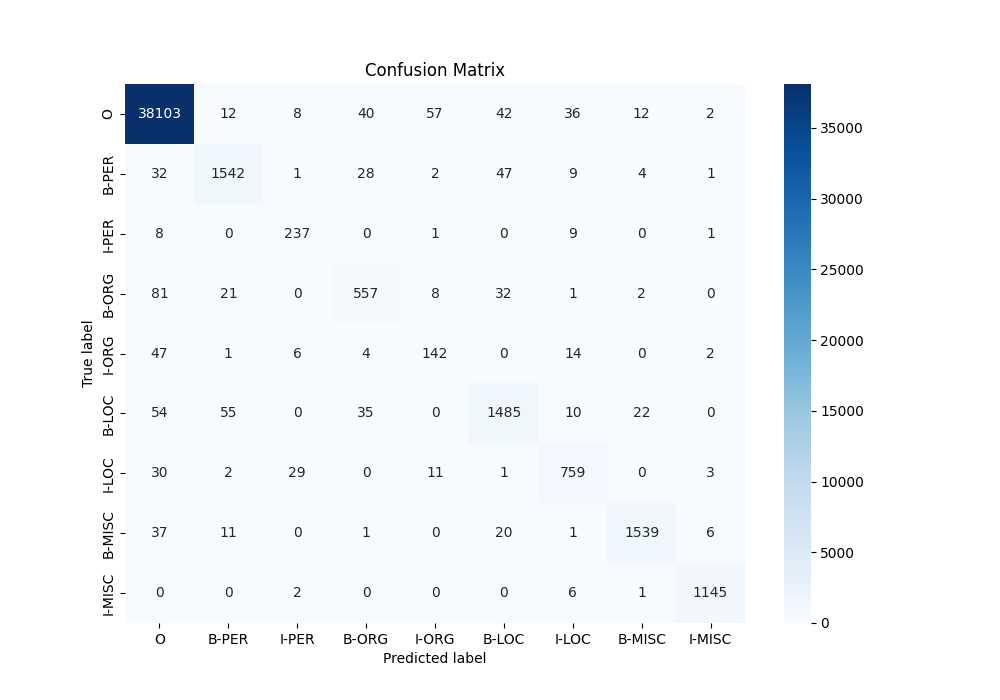
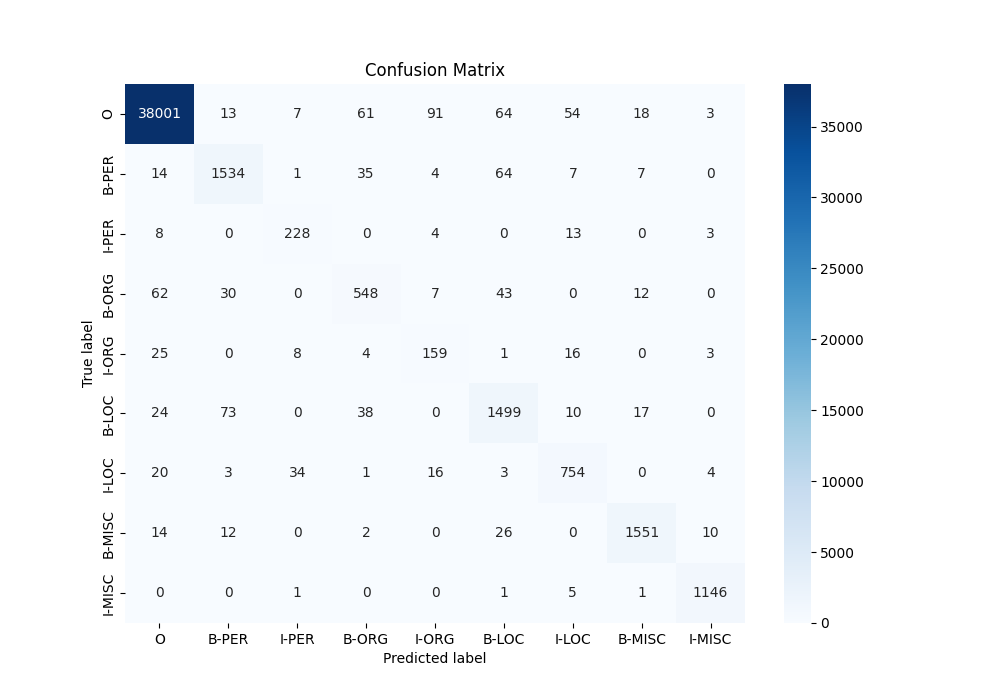
added data

diff --git a/train.py b/train.py
@@ -45,7 +45,7 @@ WEIGHT_MAP = {
     'B_PER': 1.0,
     'I_PER': 1.0
 }
-LOSS_FUNCTION = "dice_loss" # Options: "cross_entropy", "focal_loss", "dice_loss"
+LOSS_FUNCTION = "focal_loss" # Options: "cross_entropy", "focal_loss", "dice_loss"
 OPTIMIZER = "sgd" # Options: "sgd", "adagrad", "adam"
 class FocalLoss(nn.Module):
     def __init__(self, alpha=1.0, gamma=2.0, ignore_index=-100):

diff --git a/dasdas.py b/dasdas.py
@@ -29,7 +29,7 @@ class classLabel(Enum):
 # Configuration
 MODEL_NAME = "bert-base-cased"
 DATASET_PATH = "conll2003"
-LOSS_FUNCTION = "dice_loss" # Options: "cross_entropy", "focal_loss", "dice_loss"
+LOSS_FUNCTION = "focal_loss" # Options: "cross_entropy", "focal_loss", "dice_loss"
 OPTIMIZER = "sgd" # Options: "sgd", "adagrad", "adam"
 NUM_EPOCHS = 10
 BATCH_SIZE = 64
